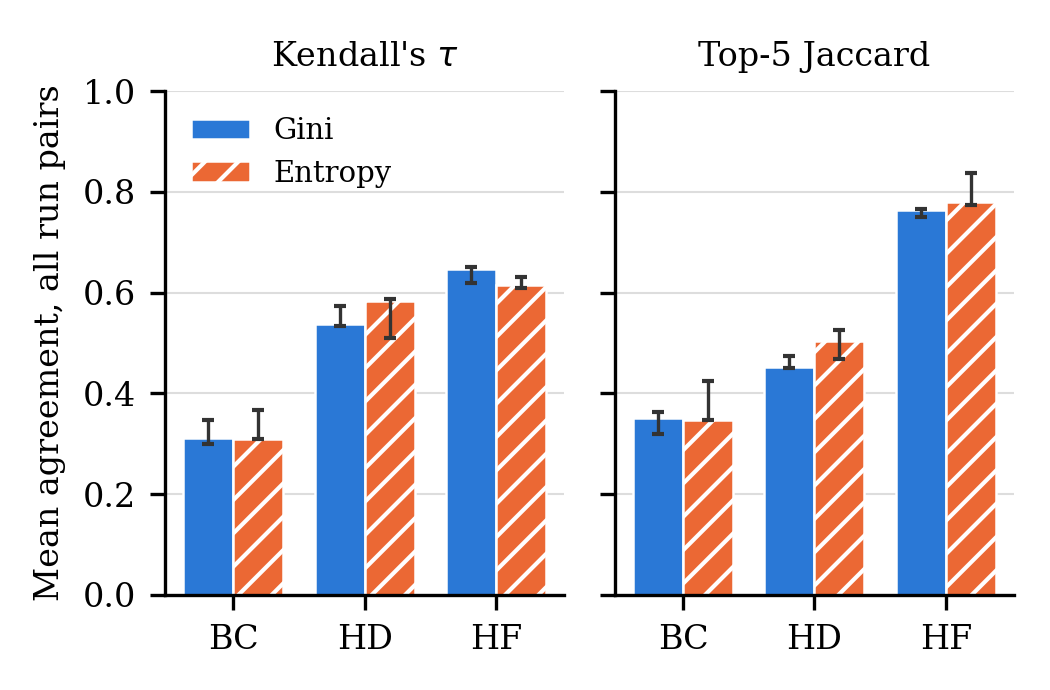
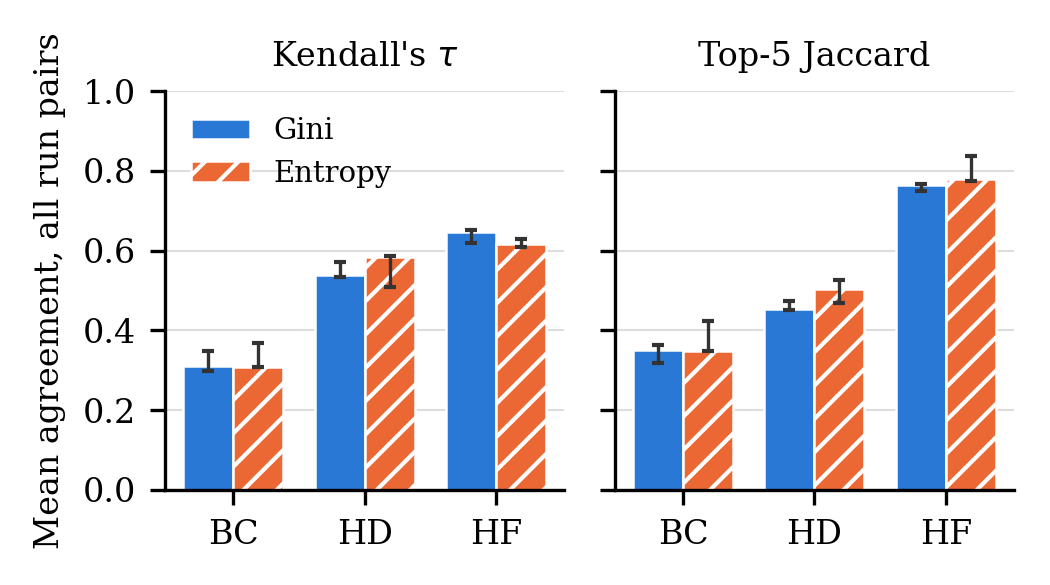
update page layout

diff --git a/paper/source/main.tex b/paper/source/main.tex
@@ -53,7 +53,7 @@ In the definition Molnar adopts, interpretability is the degree to which a human
 
 The split criterion is one such setting. The scikit-learn library grows trees with Gini impurity unless told otherwise and offers Shannon entropy as the alternative \cite{sklearnDTC}, but its documentation gives no reason to prefer either for interpretability. In healthcare the question has practical weight, because a review of 76 studies found that applications of explainable AI (XAI) to tabular health records rarely appraised the validity or robustness of their explanations \cite{caterson2024}.
 
-This paper asks whether Gini or entropy changes the interpretability of decision trees trained on medical data. It reanalyses the group's recorded experiments on three UCI datasets, adds a node-by-node comparison of the depth-3 trees, and tests how far the measures support a verdict. Sections~II--V cover background, method, results with their critique, and conclusions.
+This paper asks whether Gini or entropy changes the interpretability of decision trees trained on medical data. It reanalyses the group's recorded experiments on three UCI datasets, adds a node-by-node comparison of the depth-3 trees, and tests how far the measures support a verdict.
 
 \section{Background and Related Work}
 \subsection{The Two Criteria}
@@ -61,13 +61,13 @@ For a node $m$ with class proportions $p_{mk}$, scikit-learn defines the two imp
 \begin{equation}
 H_{\mathrm{Gini}}=\sum_k p_{mk}(1-p_{mk}),\qquad H_{\mathrm{ent}}=-\sum_k p_{mk}\log p_{mk}.
 \end{equation}
-Gini impurity equals $1-\sum_k p_{mk}^2$, the probability that a random case is misclassified when labelled at random according to the node's class proportions \cite{karabiber}. It comes from CART \cite{breiman2017}, while information gain, the drop in entropy, comes from ID3 \cite{quinlan1986}; CART is still usually paired with Gini and ID3 with entropy \cite{kavlakoglu2021}. The scikit-learn library implements both inside one optimised CART that builds binary trees \cite{sklearnTree}, so in this study the criterion is the only difference between the paired trees.
+Gini impurity comes from CART \cite{breiman2017}, while information gain, the drop in entropy, comes from ID3 \cite{quinlan1986}; CART is usually paired with Gini and ID3 with entropy \cite{kavlakoglu2021}. The scikit-learn library implements both inside one optimised CART that builds binary trees \cite{sklearnTree}, so in this study the criterion is the only difference between the paired trees.
 
 \subsection{How Often the Criteria Disagree}
-Raileanu and Stoffel characterised formally when the two criteria select the same split. Across all possible databases with two binary attributes, a binary class and 50--200 rows, disagreement never exceeded 2\% of cases \cite{raileanu2004}. The group initially read this bound as a forecast of a null result. Its scope is narrower: it counts disagreements in the choice of a single split on small synthetic binary data, not differences in accuracy, and the authors add that specific databases may still differ significantly \cite{raileanu2004}. The features studied here are mostly continuous, so the bound does not transfer directly.
+Raileanu and Stoffel characterised formally when the two criteria select the same split. Across all possible databases with two binary attributes, a binary class and 50--200 rows, disagreement never exceeded 2\% of cases \cite{raileanu2004}. Its scope is narrower: it counts disagreements in the choice of a single split on small synthetic binary data, not differences in accuracy, and the authors add that specific databases may still differ significantly \cite{raileanu2004}. The features studied here are mostly continuous, so the bound does not transfer directly.
 
 \subsection{What Makes a Tree Comprehensible}
-In a study with 69 respondents, Piltaver \textit{et al.} found that more leaves clearly made trees harder to understand and that the depth of the leaf needed to answer a question had the largest effect, while tree depth on its own mattered little \cite{piltaver2016}. Terminal nodes multiply quickly with depth \cite{molnar2025}, which is why limiting \texttt{max\_depth} works as pre-pruning and why unpruned trees are hard to follow \cite{navlani2026}. Leaf count is therefore a better proxy than maximum depth.
+In a study with 69 respondents, Piltaver \textit{et al.} found that more leaves clearly made trees harder to understand and that the depth of the leaf needed to answer a question had the largest effect, while tree depth on its own mattered little \cite{piltaver2016}. Terminal nodes multiply quickly with depth \cite{molnar2025}, so limiting \texttt{max\_depth} works as pre-pruning. Leaf count is therefore a better proxy than maximum depth.
 
 \subsection{Instability}
 Decision trees are unstable: small variations in the training set produce different trees, with changes in both accuracy and topology \cite{last2002}. The course readings agree \cite{molnar2025}, \cite{kavlakoglu2021}. An explanation that changes when a few patients are swapped is hard to trust, so stability is treated here as part of interpretability.
@@ -100,11 +100,11 @@ Each dataset was split once, stratified 80/20, with \texttt{random\_state}~$=42$
 \textit{Structure:} depth, leaves, nodes and distinct features used by the unconstrained trees. \textit{Accuracy at fixed complexity:} test accuracy with \texttt{max\_depth} set to 3, 5, 7 and 10. \textit{Stability:} the data were re-split 30 times (\texttt{random\_state}~$=$~run, tree seed fixed), an unconstrained tree was trained on each training portion, and its impurity-based importances were ranked. Every pair of runs (435 pairs) was compared by Kendall's~$\tau$ over the full ranking and by the Jaccard overlap of the top five features, and the values were averaged. The procedure was repeated on five disjoint sets of 30 split seeds to show how much each average moves with the resamples drawn. \textit{Readable levels:} the depth-3 trees were compared at their seven split positions, counting positions with the same feature and threshold.
 
 \subsection{Existing Results Only}
-The group chose to analyse its recorded runs without re-running them. Patient counts, the binomial standard error $\sqrt{p(1-p)/n}$, gaps and split counts were derived from the notebook outputs and tree plots, which accompany this paper with the derivation script.
+The group analysed its recorded runs without re-running them. Patient counts, the binomial standard error $\sqrt{p(1-p)/n}$, gaps and split counts were derived from the notebook outputs and tree plots.
 
 \section{Results and Discussion}
 \subsection{Structure}
-Table~\ref{tab:struct} shows no consistent structural winner. Gini trees are one level shallower on HD and HF but deeper on BC. Entropy has fewer or equal leaves everywhere, but only BC shows a material gap, 17 against 24. Node counts add nothing: every tree is binary, so nodes $=2\times\text{leaves}-1$ in all six cases. Since more leaves clearly reduce comprehension \cite{piltaver2016}, trees with 17--51 leaves make poor reading whichever criterion grew them.
+Table~\ref{tab:struct} shows no consistent structural winner. Gini trees are one level shallower on HD and HF but deeper on BC. Entropy has fewer or equal leaves everywhere, but only BC shows a material gap, 17 against 24. Since more leaves clearly reduce comprehension \cite{piltaver2016}, trees with 17--51 leaves make poor reading whichever criterion grew them.
 
 \begin{table}[!t]
 \caption{Unconstrained trees on the single 80/20 split}
@@ -130,7 +130,7 @@ Fig.~\ref{fig:depth} expresses the accuracy gap in test patients. Entropy is ahe
 
 \begin{figure}[!t]
 \centering
-\includegraphics[width=\columnwidth]{fig-depth-gap.png}
+\includegraphics[width=0.9\columnwidth]{fig-depth-gap.png}
 \caption{Accuracy gap at fixed depth: entropy minus Gini, in correctly classified test patients (positive favours entropy).}
 \label{fig:depth}
 \end{figure}
@@ -146,7 +146,7 @@ Table~\ref{tab:splits} compares the depth-3 trees node by node. On HD and HF the
 \centering
 \footnotesize
 \setlength{\tabcolsep}{3pt}
-\begin{tabular}{@{}l c c c >{\raggedright\arraybackslash}p{3.1cm}@{}}
+\begin{tabular}{@{}l c c c >{\raggedright\arraybackslash}p{3.65cm}@{}}
 \hline
  & Splits & Identical & Same feat. & First difference \\
 \hline
@@ -161,26 +161,26 @@ HF & 6/6 & 5 of 6 & 5 of 6 & Level 3: \texttt{serum\_sodium} vs. \texttt{platele
 BC behaves differently. Both roots split on \texttt{perimeter3}, but at different thresholds, so 297 training patients go left under Gini and 308 under entropy; every node below then sees different data, and no threshold matches. This explains why 10 of 19 shared positions agree exactly, well below the 98\% that Raileanu and Stoffel's bound might suggest \cite{raileanu2004}: their bound concerns one decision on fixed data, whereas in a tree one early disagreement changes the data for every descendant. Small differences still move accuracy: on HD, two differing bottom splits separate 53 from 49 correct.
 
 \subsection{Stability of Importance Rankings}
-Fig.~\ref{fig:stab} shows that the dataset, not the criterion, sets stability. For a fixed criterion, $\tau$ ranges from 0.31 (BC) to 0.65 (HF) across datasets, a spread of about 0.33, and Jaccard from 0.35 to 0.78. The largest gap between criteria is 0.045 in $\tau$ and 0.052 in Jaccard, and its sign changes: entropy is ahead on HD, Gini on HF, and BC is level (0.312 against 0.308). These gaps are no larger than the movement from redrawing the resamples: the all-pairs mean shifts by up to 0.077 in $\tau$ and 0.077 in Jaccard across five sets of 30 split seeds. We therefore draw no conclusion about which criterion is more stable. BC ranks least consistently, with 30 features of which 12--14 are used.
+Fig.~\ref{fig:stab} shows that the dataset, not the criterion, sets stability. For a fixed criterion, $\tau$ ranges from 0.31 (BC) to 0.65 (HF) across datasets. The largest gap between criteria is 0.045 in $\tau$ and 0.052 in Jaccard, and its sign changes: entropy is ahead on HD, Gini on HF, and BC is level. These gaps are no larger than the movement from redrawing the resamples, which shifts the all-pairs mean by up to 0.077 in both measures across five sets of 30 split seeds. We therefore draw no conclusion about which criterion is more stable. BC ranks least consistently, with 30 features of which 12--14 are used.
 
 \begin{figure}[!t]
 \centering
 \includegraphics[width=\columnwidth]{fig-stability.pdf}
-\caption{Stability over 30 resamples: mean Kendall's $\tau$ and top-5 Jaccard overlap over all 435 pairs of runs. Whiskers give the range over five independent sets of 30 resamples.}
+\caption{Stability over 30 resamples: mean Kendall's $\tau$ and top-5 Jaccard overlap over all 435 run pairs. Whiskers: range over five sets of 30 resamples.}
 \label{fig:stab}
 \end{figure}
 
-The measure still has limits. The importances are impurity-based and computed on the training portion of unconstrained trees, and the scikit-learn documentation warns that such importances can rate features highly that do not predict unseen data when the model overfits, and that they favour high-cardinality features \cite{sklearnPI}; Molnar recommends estimating importance on held-out data for the same reason \cite{molnar2025}. HD's one-hot binary columns are exposed to that bias. Finally, the stability measured is that of the 33--101-node trees, not of the depth-3 trees that Table~\ref{tab:splits} shows a reader would use.
+The measure still has limits. The importances are impurity-based and computed on the training portion of unconstrained trees, and the scikit-learn documentation warns that such importances can rate features highly that do not predict unseen data when the model overfits, and that they favour high-cardinality features \cite{sklearnPI}; HD's one-hot binary columns are exposed to that bias. Finally, the stability measured is that of the 33--101-node trees, not of the depth-3 trees that Table~\ref{tab:splits} shows a reader would use.
 
 \subsection{Hypotheses}
-H1 (Gini gives simpler trees with less stable rankings) is not supported: Gini is shallower on two datasets, has more leaves on BC, and its stability is level with entropy on BC, higher on HF and lower on HD, within the variation between resample sets. H2 (entropy gives more stable rankings but deeper trees) is not supported either: entropy is deeper on two datasets, but its $\tau$ is higher on HD only and the gap is within that variation. H3 (dataset dependence) is supported: the dataset moves $\tau$ about seven times more than the criterion does and decides which criterion appears ahead on accuracy. H0 is not rejected: the only measure that leans the same way on all three datasets is leaf count, and its margin there is 0 and 1 leaves on two of them. No proxy was checked against human judgement, and comprehension depends on the reader's question \cite{piltaver2016}.
+H1 (Gini gives simpler trees with less stable rankings) is not supported: Gini is shallower on two datasets, has more leaves on BC, and its stability is level with entropy on BC, higher on HF and lower on HD, within the variation between resample sets. H2 (entropy gives more stable rankings but deeper trees) is not supported either: entropy is deeper on two datasets, but its $\tau$ is higher on HD only and the gap is within that variation. H3 (dataset dependence) is supported: the dataset moves $\tau$ about seven times more than the criterion does and decides which criterion appears ahead on accuracy. H0 is not rejected: the only measure that leans the same way on all three datasets is leaf count, and its margin there is 0 and 1 leaves on two of them.
 
 \section{Conclusion and Limitations}
 On these datasets the split criterion does not change interpretability in any consistent way. Structural size differs by one level and up to seven leaves without a pattern (RQ1). No criterion gives more accuracy per unit of depth once test-set resolution is considered, though on each dataset the better depth-3 tree matches or nearly matches the best setting tried (RQ2). Stability is driven by the dataset, and the criterion effect changes sign and is within resampling noise (RQ3). The readable top levels agree exactly on the two heart datasets and diverge from the root on breast cancer, where a small threshold shift cascades through the tree (RQ4).
 
-The analysis leaves several questions open. Accuracy rests on one split with no paired test, so small real differences cannot be excluded. The stability measure does not measure the stability of a readable explanation. Split agreement was read from plots at depth 3 only. Only \texttt{max\_depth} pruning was used; cost-complexity pruning, other criteria and ensembles were not studied. The datasets come from one domain, and no clinician judged any tree, so every conclusion concerns proxies for interpretability rather than interpretability itself.
+The analysis leaves several questions open. Accuracy rests on one split with no paired test, so small real differences cannot be excluded. The stability measure does not measure the stability of a readable explanation, and split agreement was read from plots at depth 3 only. Only \texttt{max\_depth} pruning was used; cost-complexity pruning, other criteria and ensembles were not studied. The datasets come from one domain, and no clinician judged any tree, so every conclusion concerns proxies for interpretability rather than interpretability itself.
 
-Four changes would address these limits. Practitioners should choose the depth budget first. Accuracy should be reported in patients with paired tests over many resamples. Stability should be measured pairwise on the depth-limited trees, using permutation importance on held-out data. A small clinician study of paired depth-3 trees would show whether the divergences in Table~\ref{tab:splits} change what readers conclude.
+Practitioners should choose the depth budget first, report accuracy in patients with paired tests over many resamples, and measure stability on the depth-limited trees using permutation importance on held-out data. A small clinician study of paired depth-3 trees would show whether the divergences in Table~\ref{tab:splits} change what readers conclude.
 
 \clearpage
 \label{paper:references}

diff --git a/paper/figures/make_fig2.py b/paper/figures/make_fig2.py
@@ -70,7 +70,7 @@ print(df.round(3).to_string(index=False))
 
 plt.rcParams.update({"font.size": 8, "font.family": "serif", "axes.spines.top": False,
                      "axes.spines.right": False})
-fig, axes = plt.subplots(1, 2, figsize=(3.5, 2.3), sharey=True)
+fig, axes = plt.subplots(1, 2, figsize=(3.5, 1.95), sharey=True)
 width = 0.38
 for ax, key, title in zip(axes, ("tau", "jaccard"), ("Kendall's $\\tau$", "Top-5 Jaccard")):
     for k, criterion in enumerate(("gini", "entropy")):
